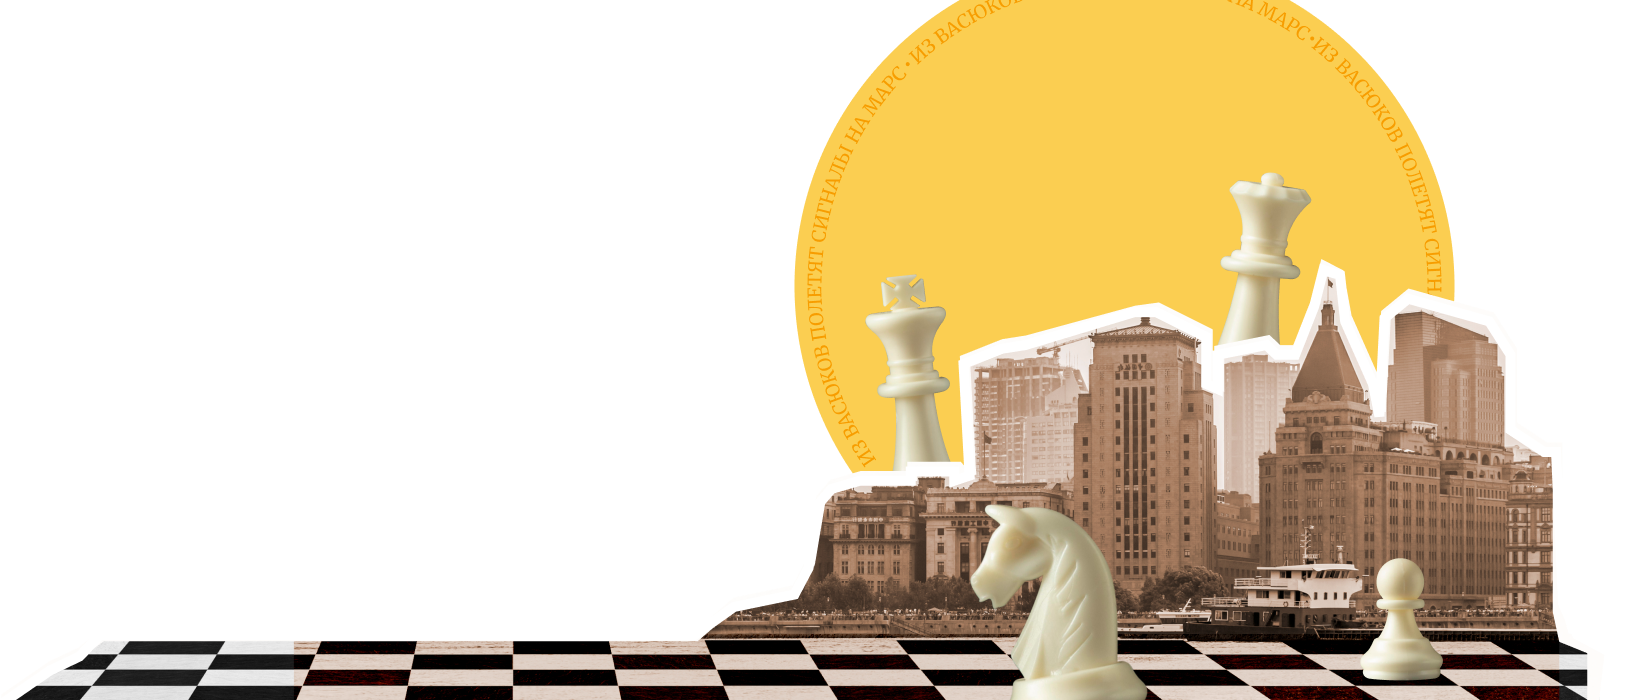
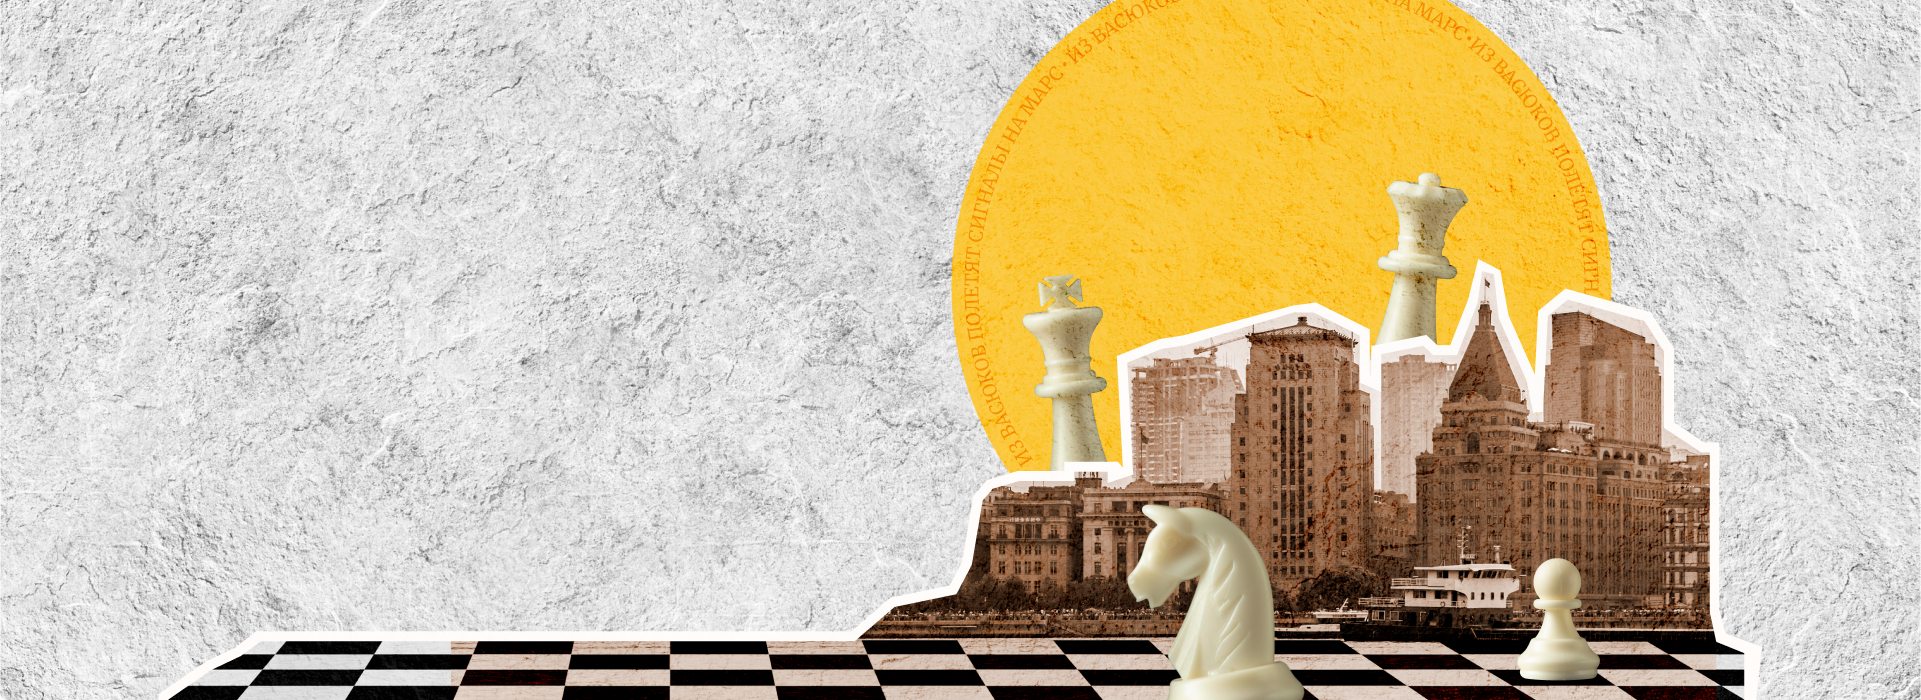
24-01-2025.2

diff --git a/projects/test_landing/page/test_landing.html b/projects/test_landing/page/test_landing.html
@@ -16,8 +16,9 @@
 </head>
 <body>
 
-<header class="">
-	<div class="container bg-rose header-picture p0">
+<header class="bg-rose header-texture">
+<div class="header-picture">
+	<div class="container p0">
 		<div class="df d-flex-columns2 h700px">
 			<div class="col-1">	
 				<div class="content pl40 pt20">	
@@ -26,20 +27,24 @@
 		<img src="images/chess-horse.svg" alt="" />
 		<img src="images/chess-horse.svg" alt="" />
 		<img src="images/chess-horse.svg" alt="" />
-						<div class="golos-text-700 fz16 color-grey-53 text-uppercase">Клуб четырех коней</div>
+						<div class="logo-text pl10">Клуб<br/> четырех коней</div>
 					</div>
 			
-					<div class="headline merriweather-regular fz60 color-grey-31 text-uppercase">Превратите<br>уездный город<br> в столицу<br>земного шара</div>
+					<div class="slogan mt60">
+<div>Превратите</div>
+<div>уездный город</div>
+<div class="text-center mr100">в&nbsp;столицу<br>земного шара</div>
+					</div>
 				
 					<div class="golos-text-400 fz18 color-31 text-center">Оплатите взнос на телеграммы для организации Международного васюкинского турнира по шахматам</div>
 				
 					<div class="df">
-						<div class="btn bg-black-1F color-white hover-yellow">
-							<a href="#section1" class="bth-label">Поддержать шахматную мысль</a>
-						</div>
-						<div class="btn border-black color-black-1F hover-black">
-							<a href="#section2" class="bth-label">Подробнее о турнире</a>
-						</div>
+						<a href="#section1" class="btn bg-black-1F color-white hover-yellow">
+							<div class="bth-label">Поддержать шахматную мысль</div>
+						</a>
+						<a href="#section2" class="btn border-black color-black-1F hover-black">
+							<div class="bth-label">Подробнее о турнире</div>
+						</a>
 					</div>
 				</div>			
 			</div>	
@@ -48,8 +53,10 @@
 		<!-- end content -->
 	</div>
 	<!-- end container -->
-	
-	<div class="container p0">
+</div>
+</header>
+
+<div class="_container p0">
 <!--
 <marquee>
 -->
@@ -66,9 +73,8 @@
 <!--
 </marquee>			
 -->
-	</div>
-	<!-- end container -->
-</header>
+</div>
+<!-- end container -->
 
 <section id="section1" class="bg-white">	
 	<div class="container s1 mt60">
@@ -199,9 +205,9 @@
 	</div>
 	<div class="card-name">Хозе-Рауль Капабланка</div>
 	<div class="card-caption">Чемпион мира по шахматам</div>
-	<div class="btn btn-details color-darkblue-A2 hover-darkblue">
+	<a href="#" class="btn btn-details color-darkblue-A2 hover-darkblue">
 		<div class="btn-label">Подробнее</div>
-	</div>
+	</a>
 </div>
 <!-- end card -->
 		
@@ -211,9 +217,9 @@
 	</div>
 	<div class="card-name">Эммануил Ласкер</div>
 	<div class="card-caption">Чемпион мира по шахматам</div>
-	<div class="btn btn-details color-darkblue-A2 hover-darkblue">
+	<a href="#" class="btn btn-details color-darkblue-A2 hover-darkblue">
 		<div class="btn-label">Подробнее</div>
-	</div>
+	</a>
 </div>
 <!-- end card -->
 
@@ -223,9 +229,9 @@
 	</div>
 	<div class="card-name">Александр Алехин</div>
 	<div class="card-caption">Чемпион мира по шахматам</div>
-	<div class="btn btn-details color-darkblue-A2 hover-darkblue">
+	<a href="#" class="btn btn-details color-darkblue-A2 hover-darkblue">
 		<div class="btn-label">Подробнее</div>
-	</div>
+	</a>
 </div>
 <!-- end card -->
 		
@@ -235,9 +241,9 @@
 	</div>
 	<div class="card-name">Арон Нимцович</div>
 	<div class="card-caption">Чемпион мира по шахматам</div>
-	<div class="btn btn-details color-darkblue-A2 hover-darkblue">
+	<a href="#" class="btn btn-details color-darkblue-A2 hover-darkblue">
 		<div class="btn-label">Подробнее</div>
-	</div>
+	</a>
 </div>
 <!-- end card -->
 		
@@ -247,9 +253,9 @@
 	</div>
 	<div class="card-name">Рихард Рети</div>
 	<div class="card-caption">Чемпион мира по шахматам</div>
-	<div class="btn btn-details color-darkblue-A2 hover-darkblue">
+	<a href="#" class="btn btn-details color-darkblue-A2 hover-darkblue">
 		<div class="btn-label">Подробнее</div>
-	</div>
+	</a>
 </div>
 <!-- end card -->
 		
@@ -259,9 +265,9 @@
 	</div>
 	<div class="card-name">Остап Бендер</div>
 	<div class="card-caption">Чемпион мира по шахматам</div>
-	<div class="btn btn-details color-darkblue-A2 hover-darkblue">
+	<a href="#" class="btn btn-details color-darkblue-A2 hover-darkblue">
 		<div class="btn-label">Подробнее</div>
-	</div>
+	</a>
 </div>
 <!-- end card -->
 		</div>
@@ -271,8 +277,8 @@
 	<!-- end container -->
 </section>	
 
-<footer class="mt60">
-	<div class="container bg-orange p0">
+<footer class="mt60 bg-rose">
+	<div class="_container bg-orange p0">
 		<div class="running-line">
 <div class="marquee">
 			<div class="merriweather-regular fz22 fw400 color-white text-uppercase">Дело помощи утопающим — дело рук самих утопающих!</div>
@@ -286,7 +292,7 @@
 	</div>
 	<!-- end container -->
 
-	<div class="container bg-rose p0">
+	<div class="container p0">
 		<div class="golos-text-400 fz16 fw400 color-grey-31 opacity-d6 p40">
 Все персонажи, события и цитаты являются вымышленными и не принадлежат создателям сайта. С подробностями можно познакомиться в главе XXXIV романа Ильи Ильфа и Евгения Петрова «Двенадцать стульев».
 		</div>

diff --git a/projects/test_landing/page/css/style.css b/projects/test_landing/page/css/style.css
@@ -1,5 +1,6 @@
 :root{
 	--color-grey-31:#313131;
+	--color-grey-53:#595653;
 	--color-orange:#F54932;	
 	--color-darkblue-A2:#3057A2;
 	--color-black-1F:#1F1F1F;
@@ -85,8 +86,6 @@ a:active, a:focus{outline: none; }
 .d-grid-columns2{grid-template-columns:repeat(2, 1fr);}
 .d-grid-columns3-112{grid-template-columns:1fr 1fr 2fr;}
 
-/*7CBE9A*/
-
 .container {
 	width:90%;
 	margin:auto;
@@ -96,47 +95,6 @@ a:active, a:focus{outline: none; }
 	padding-left:40px;
 	padding-right:40px;
 }
-
-.bg-white{background-color:#FFFFFF}
-.color-white{color:#FFFFFF}
-
-.bg-rose{background-color:#E9DED4}
-
-.bg-orange{background-color:var(--color-orange,#F54932)}
-.color-orange{color:var(--color-orange,#F54932)}
-
-.bg-black-1F{background-color:var(--color-black-1F,#1F1F1F)}
-.color-black-1F{color:var(--color-black-1F,#1F1F1F)}
-
-.color-darkblue-A2{color:var(--color-darkblue-A2,#3057A2);}
-.color-grey-31{color:var(--color-grey-31,#313131)}
-.color-grey-53{color:#595653}
-
-
-.btn{cursor: pointer;}
-.bth-label{
-	font-family: "Golos Text", serif;
-	font-optical-sizing: auto;
-	font-weight: 500;
-	font-style: normal;
-	font-size:16px;
-}
-.btn.border-black{
-	border:2px solid var(--color-black-1F,#1F1F1F);
-}
-.btn.hover-yellow:hover{
-	color: var(--color-black-1F,#1F1F1F);
-	background-color:var(--color-yellow-51,#FBCE51);
-}
-.btn.hover-black:hover{
-	color: #fff;
-	background-color:var(--color-black-1F,#1F1F1F);
-}
-.btn.hover-darkblue:hover{
-	color: #fff;
-	background-color:var(--color-darkblue-A2);
-}
-
 
 .fz16{font-size:16px;}
 .fz20{font-size:20px;}.lh20{line-height:20px;}
@@ -335,11 +293,84 @@ a:active, a:focus{outline: none; }
 .h700px{height:700px;}		
 
 
-header .header-picture {
-	background-image: url("../images/header-picture.png");
+
+.bg-white{background-color:#FFFFFF}
+.color-white{color:#FFFFFF}
+
+.bg-rose{background-color:#E9DED4}
+
+.bg-orange{background-color:var(--color-orange,#F54932)}
+.color-orange{color:var(--color-orange,#F54932)}
+
+.bg-black-1F{background-color:var(--color-black-1F,#1F1F1F)}
+.color-black-1F{color:var(--color-black-1F,#1F1F1F)}
+
+.color-darkblue-A2{color:var(--color-darkblue-A2,#3057A2);}
+.color-grey-31{color:var(--color-grey-31,#313131)}
+.color-grey-53{color:var(--color-grey-53,#595653)}
+
+.btn{cursor: pointer;}
+.bth-label{
+	font-family: "Golos Text", serif;
+	font-optical-sizing: auto;
+	font-weight: 500;
+	font-style: normal;
+	font-size:16px;
+}
+.btn.border-black{
+	border:2px solid var(--color-black-1F,#1F1F1F);
+}
+.btn.hover-yellow:hover{
+	color: var(--color-black-1F,#1F1F1F);
+	background-color:var(--color-yellow-51,#FBCE51);
+}
+.btn.hover-black:hover{
+	color: #fff;
+	background-color:var(--color-black-1F,#1F1F1F);
+}
+.btn.hover-darkblue:hover{
+	color: #fff;
+	background-color:var(--color-darkblue-A2);
+}
+
+.header-texture {
+	background-image: url("../images/header-texture.png");
 	background-repeat: no-repeat;
-	background-size: cover;
-	background-position: -265px bottom;	
+	background-size: contain;
+	background-position:center bottom;	
+	background-blend-mode: color-burn;
+}
+.header-picture {
+	background-image: url("../images/header-picture2.png");
+	background-repeat: no-repeat;
+	background-size: contain;
+	background-position:center bottom;	
+	/*background-blend-mode: color-burn;*/
+}
+@media (max-width:1366px){
+	.header-picture {
+		background-size:cover;
+	}
+}
+
+header .logo-text{
+	line-height: 108%;
+	font-family: "Golos Text", serif;
+	font-optical-sizing: auto;
+	font-weight: 700;
+	font-style: normal;
+	font-size:16px;
+	text-transform: uppercase;
+	color:var(--color-grey-53,#595653);
+} 
+
+header .slogan {
+	font-family: "Merriweather", serif;
+	font-weight: 400;
+	font-style: normal;
+	font-size:60px;
+	text-transform: uppercase;
+	color:var(--color-grey-31);
 }
 
 header .btn {
@@ -459,6 +490,7 @@ header .btn {
 }
 .marquee {
   white-space: nowrap;
+  text-align: center;
   /*display: inline-block;*/
   /*animation: scroll-text 10s linear infinite;*/
   /*animation: marquee-ltr 20s linear infinite;*/

diff --git a/projects/test_landing/info.html b/projects/test_landing/info.html
@@ -128,12 +128,25 @@ https://koltan.dev/blog/sozdaem-beskonechnuyu-beguschuyu-stroku-bez-lagov-i-java
 https://sky.pro/wiki/html/zamena-i-analogi-ustarevshego-tega-marquee-v-html/
 Замена и аналоги устаревшего тега marquee в HTML
 
+https://sky.pro/media/kak-sdelat-plavnyj-skroll-k-yakoryu/
+Как сделать плавный скролл к якорю
+
 https://fonts.google.com/?subset=cyrillic
 https://everythingfonts.com/
 https://www.fontsquirrel.com/tools/webfont-generator
 https://www.font2web.com/
 
 https://htmlbook.ru/blog/svoi-shrift-na-stranitse
+
+
+https://webref.ru/css/mix-blend-mode
+https://doka.guide/css/mix-blend-mode/
+
+https://developer.mozilla.org/en-US/docs/Web/CSS/background-blend-mode
+
+https://habr.com/ru/companies/poiskvps/articles/423115/
+Улучшенные эффекты с режимом смешивания фоновых слоев в CSS
+
 
 --------
 		</pre>
@@ -184,6 +197,19 @@ https://htmlbook.ru/blog/svoi-shrift-na-stranitse
 */
 			
 		</pre></code>
+		
+		<code><pre class="bg-white">
+document.querySelectorAll('a[href^="#"]').forEach(anchor =&gt; {
+    anchor.addEventListener('click', function (e) {
+        e.preventDefault();
+ 
+        document.querySelector(this.getAttribute('href')).scrollIntoView({
+            behavior: 'smooth'
+        });
+    });
+});			
+		</pre></code>
+		
 	</div>
 </div>
 <!-- end container -->
